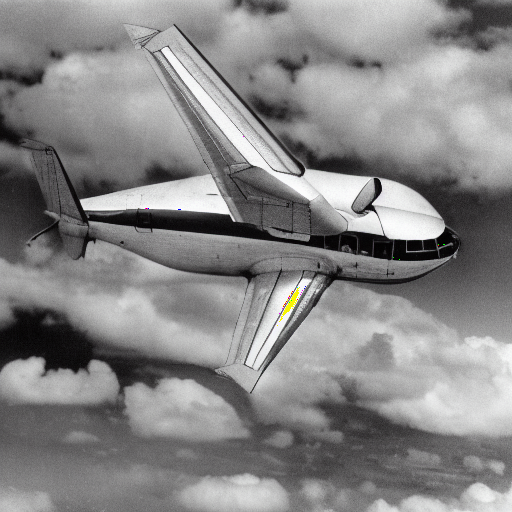
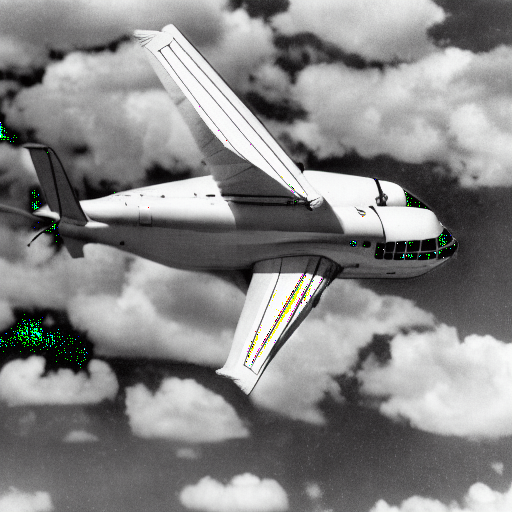
scribble erasing

diff --git a/train-scripts/train-esd.py b/train-scripts/train-esd.py
@@ -23,7 +23,7 @@ import einops
 from pytorch_lightning import seed_everything
 from annotator.canny import CannyDetector
 
-apply_canny = CannyDetector()
+# apply_canny = CannyDetector()
 
 
 def load_image_as_array(image_path):
@@ -54,7 +54,7 @@ def load_model_from_config(config, ckpt, device="cpu", verbose=False):
 @torch.no_grad()
 def sample_model(model, sampler, h, w, ddim_steps, scale, ddim_eta, start_code=None, n_samples=1,t_start=-1,log_every_t=None,till_T=None,verbose=True):
     a_prompt = "best quality, extremely detailed"
-    n_prompt = "longbody, lowres,bad anatomy, bad hands, missing fingers, extra digit, fewer digits, cropped, worst quality, low quality"
+    n_prompt = "extra digit, fewer digits, cropped, worst quality, low quality, noisy"
     # prompt = prompt
     guess_mode = False
     low_threshold = 100
@@ -68,8 +68,10 @@ def sample_model(model, sampler, h, w, ddim_steps, scale, ddim_eta, start_code=N
     
     # cond_detected_map = np.zeros_like(cond_img, dtype=np.uint8)
     # cond_detected_map[np.min(cond_img, axis=2) < 127] = 255
-    cond_detected_map = apply_canny(cond_img, low_threshold, high_threshold)
-    cond_detected_map = HWC3(cond_detected_map)
+    # cond_detected_map = apply_canny(cond_img, low_threshold, high_threshold)
+    # cond_detected_map = HWC3(cond_detected_map)
+    cond_detected_map = np.zeros_like(cond_img, dtype=np.uint8)
+    cond_detected_map[np.min(cond_img, axis=2) < 127] = 255
 
     cond_control = torch.from_numpy(cond_detected_map.copy()).float().cuda() / 255.0
     cond_control = torch.stack([cond_control for _ in range(n_samples)], dim=0)
@@ -85,7 +87,7 @@ def sample_model(model, sampler, h, w, ddim_steps, scale, ddim_eta, start_code=N
 
     model.control_scales = [1 * (0.825 ** float(12 - i)) for i in range(13)] if guess_mode else ([1.0] * 13)
     
-    samples_ddim, inters = sampler.sample(ddim_steps, n_samples, shape, cond, verbose=False, eta=0.0, unconditional_guidance_scale=9.0, unconditional_conditioning=un_cond)
+    samples_ddim, inters = sampler.sample(ddim_steps, n_samples, shape, cond, verbose=False, eta=0.0, unconditional_guidance_scale=7.0, unconditional_conditioning=un_cond)
 
     if log_every_t is not None:
         return samples_ddim, inters
@@ -184,7 +186,7 @@ def train_esd(prompt, train_method, start_guidance, negative_guidance, iteration
     criteria = torch.nn.MSELoss()
     history = []
 
-    name = f'compvis-word_{word_print}-method_{train_method}-sg_{start_guidance}-ng_{negative_guidance}-iter_{iterations}-lr_{lr}'
+    name = f'compvis-word_{word_print}-method_{train_method}-sg_{start_guidance}-ng_{negative_guidance}-iter_{iterations}-lr_{lr}_scribble'
     # TRAINING CODE
     pbar = tqdm(range(iterations))
     for i in pbar:
@@ -208,7 +210,7 @@ def train_esd(prompt, train_method, start_guidance, negative_guidance, iteration
             
             #Get outputs from frozen model
             a_prompt = "best quality, extremely detailed"
-            n_prompt = "longbody, lowres,bad anatomy, bad hands, missing fingers, extra digit, fewer digits, cropped, worst quality, low quality"
+            n_prompt = "extra digit, fewer digits, cropped, worst quality, low quality, noisy"
             guess_mode = False
             n_samples=1
             low_threshold = 100
@@ -223,8 +225,10 @@ def train_esd(prompt, train_method, start_guidance, negative_guidance, iteration
 
             # uncond_detected_map = np.zeros_like(uncond_img, dtype=np.uint8)
             # uncond_detected_map[np.min(uncond_img, axis=2) < 127] = 255
-            uncond_detected_map = apply_canny(uncond_img, low_threshold, high_threshold)
-            uncond_detected_map = HWC3(uncond_detected_map)
+            # uncond_detected_map = apply_canny(uncond_img, low_threshold, high_threshold)
+            # uncond_detected_map = HWC3(uncond_detected_map)
+            uncond_detected_map = np.zeros_like(uncond_img, dtype=np.uint8)
+            uncond_detected_map[np.min(uncond_img, axis=2) < 127] = 255
 
             uncond_control = torch.from_numpy(uncond_detected_map.copy()).float().cuda() / 255.0
             uncond_control = torch.stack([uncond_control for _ in range(n_samples)], dim=0)
@@ -244,8 +248,10 @@ def train_esd(prompt, train_method, start_guidance, negative_guidance, iteration
 
             # cond_detected_map = np.zeros_like(cond_img, dtype=np.uint8)
             # cond_detected_map[np.min(cond_img, axis=2) < 127] = 255
-            cond_detected_map = apply_canny(cond_img, low_threshold, high_threshold)
-            cond_detected_map = HWC3(cond_detected_map)
+            # cond_detected_map = apply_canny(cond_img, low_threshold, high_threshold)
+            # cond_detected_map = HWC3(cond_detected_map)
+            cond_detected_map = np.zeros_like(cond_img, dtype=np.uint8)
+            cond_detected_map[np.min(cond_img, axis=2) < 127] = 255
 
             cond_control = torch.from_numpy(cond_detected_map.copy()).float().cuda() / 255.0
             cond_control = torch.stack([cond_control for _ in range(n_samples)], dim=0)
@@ -266,8 +272,10 @@ def train_esd(prompt, train_method, start_guidance, negative_guidance, iteration
 
         # e_cond_detected_map = np.zeros_like(e_cond_img, dtype=np.uint8)
         # e_cond_detected_map[np.min(e_cond_img, axis=2) < 127] = 255
-        e_cond_detected_map = apply_canny(e_cond_img, low_threshold, high_threshold)
-        e_cond_detected_map = HWC3(e_cond_detected_map)
+        # e_cond_detected_map = apply_canny(e_cond_img, low_threshold, high_threshold)
+        # e_cond_detected_map = HWC3(e_cond_detected_map)
+        e_cond_detected_map = np.zeros_like(e_cond_img, dtype=np.uint8)
+        e_cond_detected_map[np.min(e_cond_img, axis=2) < 127] = 255
 
         e_cond_control = torch.from_numpy(e_cond_detected_map.copy()).float().cuda() / 255.0
         e_cond_control = torch.stack([e_cond_control for _ in range(n_samples)], dim=0)
@@ -338,13 +346,13 @@ if __name__ == '__main__':
     parser.add_argument('--lr', help='learning rate used to train', type=int, required=False, default=1e-5)
     parser.add_argument('--config_path', help='config path for stable diffusion v1-4 inference', type=str, required=False, default='configs/controlnet/cldm_v15.yaml')
     # parser.add_argument('--ckpt_path', help='ckpt path for stable diffusion v1-4', type=str, required=False, default='models/ldm/controlnet_canny/control_sd15_canny.pth')
-    parser.add_argument('--ckpt_path', help='ckpt path for stable diffusion v1-4', type=str, required=False, default='models/ldm/controlnet_hed/control_sd15_hed.pth')
+    parser.add_argument('--ckpt_path', help='ckpt path for stable diffusion v1-4', type=str, required=False, default='models/ldm/controlnet_scribble/control_sd15_scribble.pth')
     # parser.add_argument('--config_path', help='config path for stable diffusion v1-4 inference', type=str, required=False, default='configs/stable-diffusion/v1-inference.yaml')
     # parser.add_argument('--ckpt_path', help='ckpt path for stable diffusion v1-4', type=str, required=False, default='models/ldm/stable-diffusion-v1/sd-v1-4-full-ema.ckpt')
     parser.add_argument('--diffusers_config_path', help='diffusers unet config json path', type=str, required=False, default='diffusers_unet_config.json')
     parser.add_argument('--devices', help='cuda devices to train on', type=str, required=False, default='0,0')
     parser.add_argument('--seperator', help='separator if you want to train bunch of words separately', type=str, required=False, default=None)
-    parser.add_argument('--image_size', help='image size used to train', type=int, required=False, default=256)
+    parser.add_argument('--image_size', help='image size used to train', type=int, required=False, default=512)
     parser.add_argument('--ddim_steps', help='ddim steps of inference used to train', type=int, required=False, default=50)
     
     parser.add_argument('--erase_condition_image', help='Erase Condition Image', type=str, required=True, default="")

diff --git a/test_scripts/test_model.py b/test_scripts/test_model.py
@@ -24,13 +24,13 @@ def load_image_as_array(image_path):
 
 object_class = "bag"
 input_type = "scribble"
-model_used = "hed"
+model_used = "scribble"
 unconditional_guidance_scale = 7
 res = 512
 
 # Configs
-resume_path = '/notebooks/erase/stable-diffusion/models/ldm/controlnet_hed/control_sd15_hed.pth' # your checkpoint path
-# resume_path = "/notebooks/erase/stable-diffusion/models/compvis-word_fish-method_notime-sg_3-ng_1-iter_500-lr_1e-05/compvis-word_fish-method_notime-sg_3-ng_1-iter_500-lr_1e-05.pt"
+# resume_path = '/notebooks/erase/stable-diffusion/models/ldm/controlnet_scribble/control_sd15_scribble.pth' # your checkpoint path
+resume_path = "/notebooks/erase/stable-diffusion/models/compvis-word_airplane-method_notime-sg_3-ng_1-iter_500-lr_1e-05_scribble/compvis-word_airplane-method_notime-sg_3-ng_1-iter_500-lr_1e-05_scribble.pt"
 N = 1
 ddim_steps = 50
 
@@ -39,7 +39,7 @@ model = create_model('/notebooks/erase/stable-diffusion/controlnet_files/cldm_v1
 model.load_state_dict(load_state_dict(resume_path, location='cuda'), strict=False)
 model = model.cuda()
 sampler = DDIMSampler(model)
-output_img_path = f'{object_class}-prompt_{object_class}-{input_type}_{unconditional_guidance_scale}-gs_{model_used}-default.png'
+output_img_path = f'{object_class}-prompt_{object_class}-{input_type}_{unconditional_guidance_scale}-gs_{model_used}-notime.png'
 # output_img_path = 'fish_test.png'
 
 a_prompt = "best quality, extremely detailed"
@@ -62,8 +62,11 @@ h, w, c = cond_img.shape
 # cond_detected_map = np.zeros_like(cond_img, dtype=np.uint8)
 # cond_detected_map[np.min(cond_img, axis=2) < 127] = 255
 
-cond_detected_map = apply_canny(cond_img, low_threshold, high_threshold)
-cond_detected_map = HWC3(cond_detected_map)
+# cond_detected_map = apply_canny(cond_img, low_threshold, high_threshold)
+# cond_detected_map = HWC3(cond_detected_map)
+
+cond_detected_map = np.zeros_like(cond_img, dtype=np.uint8)
+cond_detected_map[np.min(cond_img, axis=2) < 127] = 255
 
 cond_control = torch.from_numpy(cond_detected_map.copy()).float().cuda() / 255.0
 cond_control = torch.stack([cond_control for _ in range(n_samples)], dim=0)
